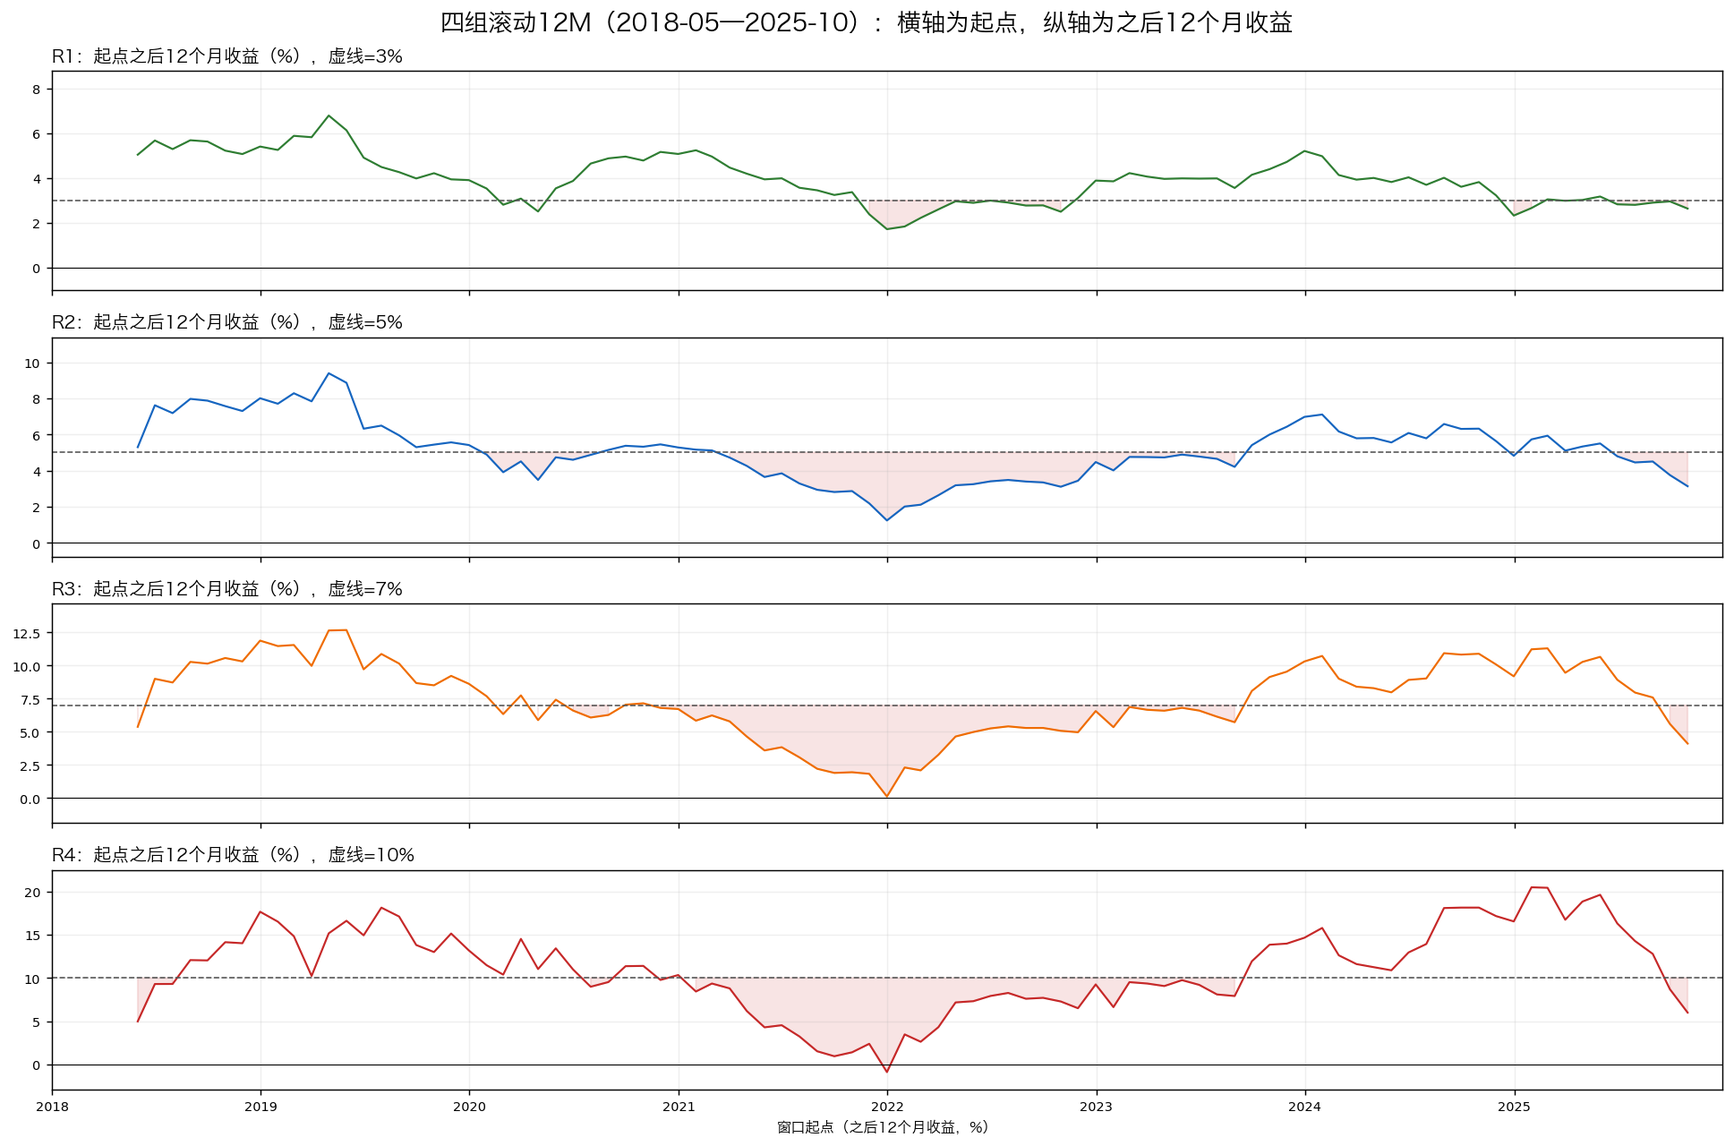
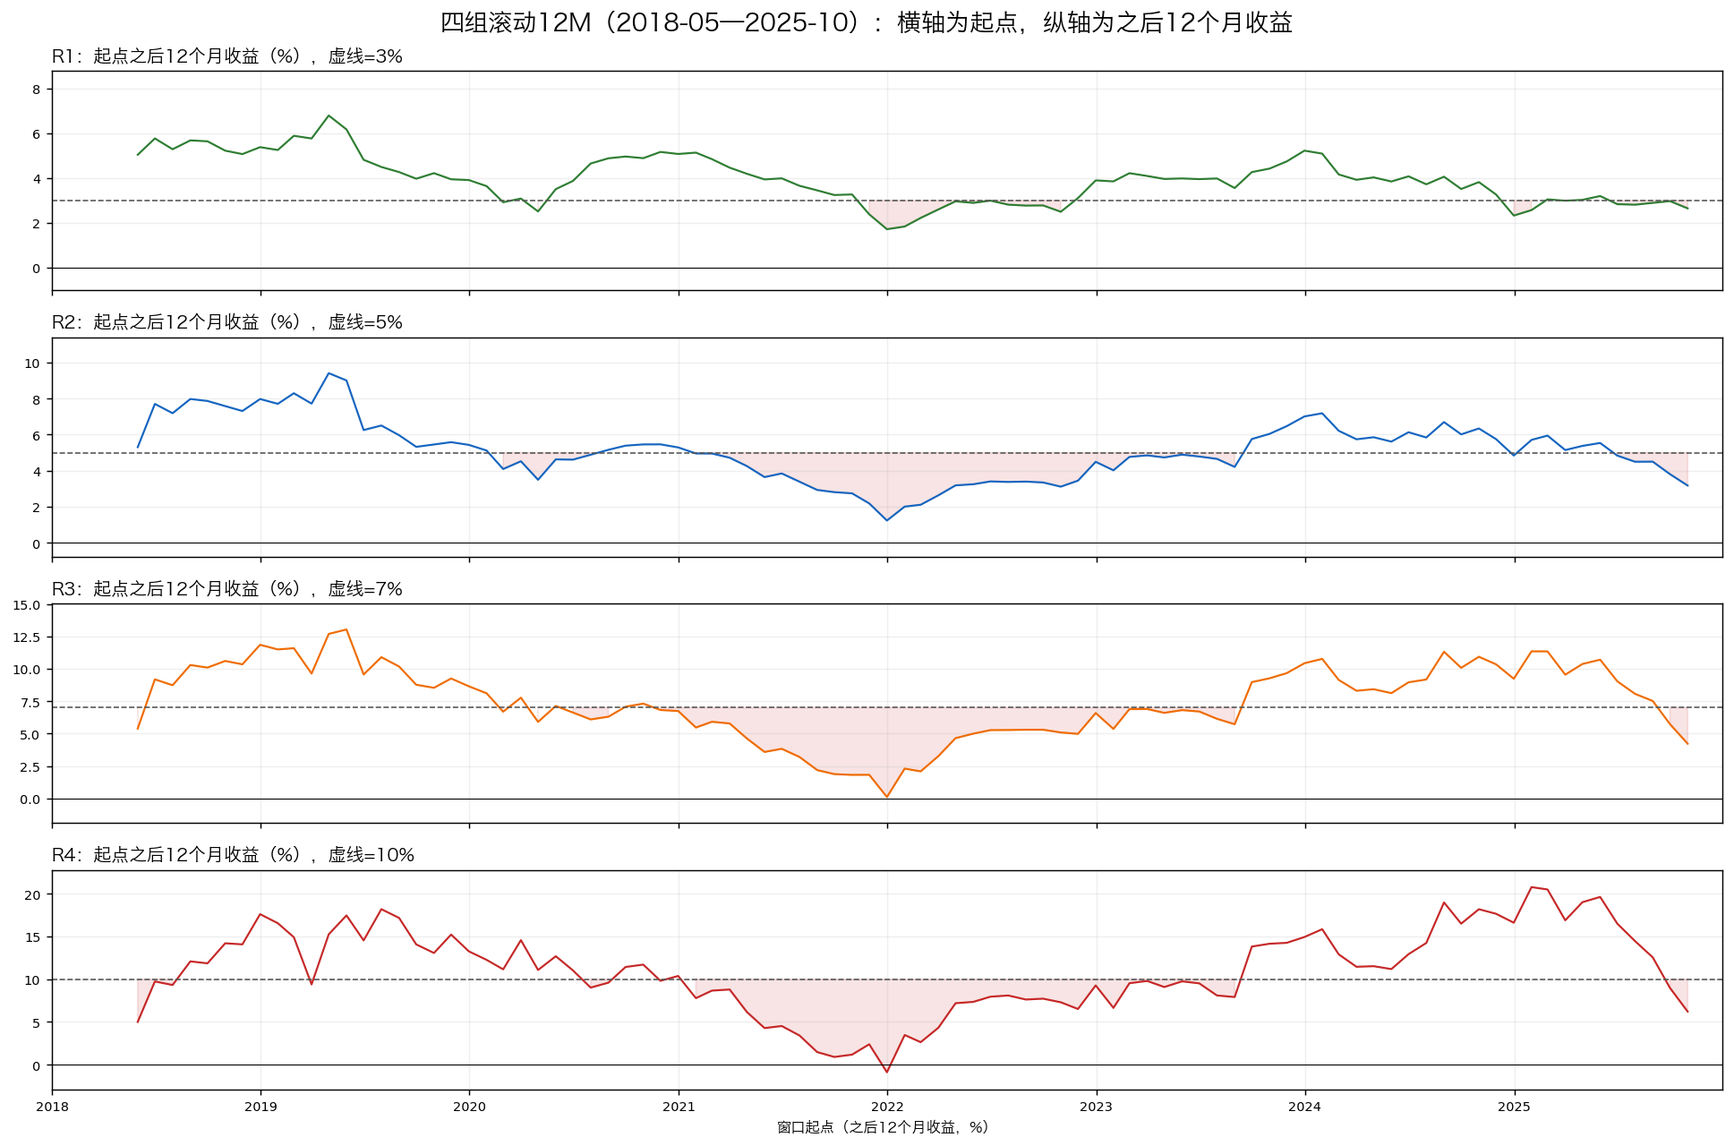
update

diff --git a/README.md b/README.md
@@ -1,10 +1,45 @@
-# funds-guide-cn（基金配置方案 2026-10）
+# 基金配置方案（2026-10）
 
 > 数据截止：2026-10-19。目标：支付宝场外可买、长期持有 20 年；分 3%/5%/7%/10% 四档，回撤不超过档位。
+>
 > 本文不构成投资建议。
-> 结构：1 结论 → 1.1 选基清单 → 1.2 指标摘要 → 2 方法 → 3 类型 → 4 基金池 → 5 构建 → 6 压力 → 7 对冲验证 → 8 执行 → 9 风险。
+
+## 目录
+
+- [1. 结论：4 个组合](#s1)
+  - [1.1 选基清单（类型层，权重 %）](#s1-1)
+  - [1.2 关键指标摘要](#s1-2)
+- [2. 方法与数据](#s2)
+  - [2.1 数据](#s2-1)
+  - [2.2 回测规则](#s2-2)
+  - [2.3 2016—2018 的扩展代理](#s2-3)
+  - [2.4 验证](#s2-4)
+- [3. 基金类型与基金池](#s3)
+  - [3.1 基金类型全景（40+ 细分）](#s3-1)
+  - [3.2 费率与经理](#s3-2)
+  - [3.3 选基标准（为什么是这些）](#s3-3)
+  - [3.4 规模/清盘风险](#s3-4)
+- [4. 组合构建：比例依据](#s4)
+  - [4.1 每类为什么是这个比例](#s4-1)
+  - [4.2 风险贡献（2020-2026，方差贡献）](#s4-2)
+  - [4.3 基金经理视角的六个概念](#s4-3)
+- [5. 压力与滚动](#s5)
+  - [5.1 压力年](#s5-1)
+  - [5.2 分段与 2020-2026](#s5-2)
+  - [5.3 费用口径](#s5-3)
+- [6. 对冲验证：哪些是真对冲，哪些是假对冲](#s6)
+  - [6.1 相关性矩阵（2020-2026 日频）](#s6-1)
+- [7. 执行清单](#s7)
+  - [7.1 再平衡](#s7-1)
+  - [7.2 限购/替代](#s7-2)
+  - [7.3 税费/费用](#s7-3)
+- [8. 风险与局限](#s8)
+
+<a id="s1" name="s1"></a>
 
 ## 1. 结论：4 个组合
+
+<a id="s1-1" name="s1-1"></a>
 
 ### 1.1 选基清单（类型层，权重 %）
 
@@ -40,18 +75,20 @@
 > **R1 的 30% 货币是 3% 档的收益刹车**，不是风险集中；风险资产合计 70%。
 ---
 
+<a id="s1-2" name="s1-2"></a>
+
 ### 1.2 关键指标摘要
 
-| 组合 | 定位 | 年化（12M均值） | 波动 | 最大回撤 | Calmar（CAGR） | 2018* | 2022 | 2023 | 2025 | 最差12M | 12M≥5% | 12M<0 | 类型/基金 | 前瞻基准 |
-|---|---|---:|---:|---:|---:|---:|---:|---:|---:|---:|---:|---|---:|---:|
-| **R1** | 3%/3% 防守 | 3.94% | 0.75% | -0.81% | 4.87 | +3.47% | +1.69% | +3.82% | +2.21% | +1.87% | 23.4% | 0.0% | 20/29 | 1.8% |
-| **R2** | 5%/5% 稳健 | 5.12% | 1.43% | -1.35% | 3.71 | +3.42% | +1.23% | +4.39% | +4.73% | +1.36% | 59.3% | 0.0% | 20/29 | 2.0% |
-| **R3** | 7%/7% 平衡 | 7.42% | 2.78% | -3.15% | 2.23 | +2.55% | +0.20% | +6.42% | +9.22% | +0.32% | 83.6% | 0.0% | 20/29 | 2.6% |
-| **R4** | 10%/10% 进取 | 11.00% | 5.36% | -6.72% | 1.49 | +0.01% | -0.80% | +8.98% | +16.86% | -1.03% | 89.2% | 1.2% | 20/29 | 3.7% |
+| 组合 | 定位 | 年化（12M均值） | 最低年化(12M) | 波动 | 最大回撤 | Calmar（CAGR） | 2018* | 2022 | 2023 | 2025 | 最差12M(252日) | 12M≥5% | 12M<0 | 类型/基金 | 前瞻基准 |
+|---|---|---:|---:|---:|---:|---:|---:|---:|---:|---:|---:|---:|---|---:|---:|
+| **R1** | 3%/3% 防守 | 3.94% | 1.60% | 0.75% | -0.81% | 4.87 | +3.47% | +1.69% | +3.82% | +2.21% | +1.87% | 23.4% | 0.0% | 20/29 | 1.8% |
+| **R2** | 5%/5% 稳健 | 5.13% | 1.20% | 1.43% | -1.35% | 3.71 | +3.42% | +1.23% | +4.39% | +4.73% | +1.36% | 59.3% | 0.0% | 20/29 | 2.0% |
+| **R3** | 7%/7% 平衡 | 7.45% | 0.05% | 2.78% | -3.15% | 2.23 | +2.55% | +0.20% | +6.42% | +9.22% | +0.32% | 83.6% | 0.0% | 20/29 | 2.6% |
+| **R4** | 10%/10% 进取 | 11.07% | -1.06% | 5.36% | -6.72% | 1.49 | +0.01% | -0.80% | +8.98% | +16.86% | -1.03% | 89.2% | 1.2% | 20/29 | 3.7% |
 
-> 口径：`年化（12M均值）` = 2018-05—2025-10 每月起算的 12M 收益均值（90 个窗口，与图2同一批）；波动/最大回撤为 2018-05—2026-10 日频；`Calmar（CAGR）` 仍按 CAGR/最大回撤；6.2 的 CAGR 与 6.3 的 12M 统计仍按 CAGR/统一 5% 口径。月度再平衡；10bp 单边成本；净值已扣管理费/托管费/销售服务费。
+> 口径：`年化（12M均值）` = 2018-05—2025-10 每月起算的 12M 收益均值（90 个窗口，与图2同一批）；`最低年化(12M)` 为 2018-05—2026-10 所有交易日、日期+1年的 12M 最低收益；`最差12M(252日)` 为 252 个交易日滚动最低值。两者样本不同。波动/最大回撤为日频；`Calmar（CAGR）` 仍按 CAGR/最大回撤；5.2 的 CAGR 仍按 CAGR 口径。月度再平衡；10bp 单边成本；净值已扣管理费/托管费/销售服务费。
 > **档位按滚动12M均值定义**；R1 3% 档实际为 3.94%，在“单类≤30%”约束下无法再压到 3.0%（除非货币超过 30%）。前瞻基准只有 1.8%/2.0%/2.6%/3.7%；3/5/7/10 不是未来承诺。
-> **四组累计净值、年度收益、每月起算 12M 见图**；其中 2016†/2017†/2018† 为代理扩展，2019+ 实际。6.1 的 2018* 为 5—12 月实际口径。
+> **四组累计净值、年度收益、每月起算 12M 见图**；其中 2016†/2017†/2018† 为代理扩展，2019+ 实际。5.1 的 2018* 为 5—12 月实际口径。
 
 
 ![四组关键指标](./fund_dashboard.png)
@@ -59,17 +96,23 @@
 ![四组滚动12M](./fund_rolling.png)
 
 > **图1**：累计净值、年度收益柱、每月起算 12M 热力图、回撤、收益/回撤、12M 达标占比。**图2**：2018-05—2025-10 的 12M 收益曲线；横轴为起点，纵轴为之后 12 个月收益；虚线是各组目标（R1 3%、R2 5%、R3 7%、R4 10%）。
-> 图中 `12M窗口占比` 使用各组阈值：R1 ≥3%/<1.5%、R2 ≥5%/<2.5%、R3 ≥7%/<3.5%、R4 ≥10%/<5%；1.2/6.3 表中的 `12M≥5%`/`12M<0` 是统一 5% 口径，两者不要混读。
+> 图中 `12M窗口占比` 使用各组阈值：R1 ≥3%/<1.5%、R2 ≥5%/<2.5%、R3 ≥7%/<3.5%、R4 ≥10%/<5%；1.2 表中的 `12M≥5%`/`12M<0` 是统一 5% 口径，两者不要混读。
 > 低波动组合的月 K 线几乎是一条斜线，信息量低，未采用；改用累计净值 + 滚动 12M + 热力图。
 > GitHub 不支持 data URI 图片；本文件已改为同目录 PNG（fund_dashboard.png、fund_rolling.png），提交时需一并上传这两个文件。
 
+<a id="s2" name="s2"></a>
+
 ## 2. 方法与数据
+
+<a id="s2-1" name="s2-1"></a>
 
 ### 2.1 数据
 
 - 天天基金 `pingzhongdata`：用**单位净值 + 累计净值差**还原分红，按除息日再投资；日频。1.2 的指标为 2018-05-01—2026-10-19 的实际净值口径；图中的 2016—2018 为代理扩展。
 - 候选 37 只 + 货币 000198；最终四组均持有 29 只、20 类。
 - 基金净值已扣管理费、托管费、销售服务费；回测额外扣 10bp 单边交易成本；不再另减年费。
+
+<a id="s2-2" name="s2-2"></a>
 
 ### 2.2 回测规则
 
@@ -78,6 +121,8 @@
 - **无杠杆、无衍生品、不做空**；只用场外公募基金。
 - **组合权重**：300 轮定向扰动 + 类型上限约束；基金层精确到 0.1%，按 1.1 拆分执行。
 - **优化**：在“收益 ≥ 档位、最大回撤 ≤ 档位”的约束下最小化波动；单类上限：所有类型 ≤30%；每只基金 ≥0.1%，按 0.1 的整数倍调整。
+
+<a id="s2-3" name="s2-3"></a>
 
 ### 2.3 2016—2018 的扩展代理
 
@@ -96,7 +141,9 @@
 | 004279 | 001722 | 2017-02 前；偏债 |
 | 004597 | 001594 | 2017-06 前；银行 |
 
-> 1.2 图中的 2016—2018 含代理误差；1.2/6.1 的 2018* 为 5—12 月实际口径；2020—2026 为真实净值。
+> 1.2 图中的 2016—2018 含代理误差；1.2/5.1 的 2018* 为 5—12 月实际口径；2020—2026 为真实净值。
+
+<a id="s2-4" name="s2-4"></a>
 
 ### 2.4 验证
 
@@ -105,10 +152,16 @@
 - **独立复算**：另写价值法脚本，从原始 CSV 重新加载、按月再平衡、逐日记账；CAGR 为 3.95/5.00/7.00/10.02，与 1.2 的 12M 均值不同；回撤用同一价值序列（-0.81/-1.35/-3.15/-6.72）。
 - **口径校验**：2020-2026 真实净值 CAGR 为 3.53/4.54/6.76/10.59；2018-2026 CAGR 为 3.95/5.00/7.00/10.02。
 - **300 轮审计**：每组 300 轮随机互调（0.1/0.2/0.3/0.5）+ 0.1 全邻域复算；在收益≥档位、单类≤30%、每只≥0.1 下，只有同时改善回撤/波动且通过 2018/2022 压力测试的解才会采用。
-- **压力校验**：自然年、2018-2022/2023-2026 分段、日频滚动 12M、逐月起算 12M；结果见 6.1/6.2/6.3 和 1.2 图。
+- **压力校验**：自然年、2018-2022/2023-2026 分段、日频滚动 12M、逐月起算 12M；结果见 5.1/5.2 和 1.2 图。
 - **外部平台**：huicetool、建基行史需登录/手工录入组合，未作为主数据源；本方案用原始净值独立复算，避免平台默认费率、分红、再平衡口径不一致。
 
-## 3. 基金类型全景（40+ 细分）
+<a id="s3" name="s3"></a>
+
+## 3. 基金类型与基金池
+
+<a id="s3-1" name="s3-1"></a>
+
+### 3.1 基金类型全景（40+ 细分）
 
 | 大类 | 细分（不能遗漏的主干） | 本方案 |
 |---|---|---|
@@ -125,9 +178,9 @@
 > 这张表是全集；本方案只把“有明确收益来源、可长期持有、支付宝可买”的 20 类纳入。
 > 未纳入的地域/行业：日本、印度、亚太、港股、新兴、美元债、REITs、医药、半导体、新能源、军工、券商、地产、农业、有色/煤炭、化工——不是漏掉，而是限购、规模、回撤或相关性不划算；只保留美股/全球/欧洲和银行/制造/科技。
 
-## 4. 基金池：费率、经理与风险
+<a id="s3-2" name="s3-2"></a>
 
-### 4.1 费率与经理
+### 3.2 费率与经理
 
 | 代码 | 基金 | 管理费 | 托管费 | 销售服务费 | 经理 | 任职起始 |
 |---|---|---:|---:|---:|---|---|
@@ -166,7 +219,9 @@
 > 管理费/托管费/销售服务费按日计提，**已反映在净值里**；申购费一次性，20 年摊薄 <0.01%/年；QDII 溢价按一次性成本处理，不按年扣。
 > 需要跟踪：002969（2026-03 新 co-manager）、003376（2025-11 新经理，指数影响小）、000307（2025-12 新经理，指数影响小）、519696（2026-01 新经理）、001722/004597（规模偏小，接近清盘线）、009049/001513（高波动，季度看持仓）。
 
-### 4.2 选基标准（为什么是这些）
+<a id="s3-3" name="s3-3"></a>
+
+### 3.3 选基标准（为什么是这些）
 
 1. **同类 3/5 年在前 1/3**：009049 3 年 141.1%、001513 3 年 212.8%，都是同类第 1；110023 5 年 1.0%、001061 5 年 2.4%，被淘汰。
 2. **Calmar/回撤优先，不只看收益**：005161 5 年 10.2% 但 2026 -18.6%、与组合相关 0.66，不选；000083 2020-26 -0.4%、回撤 -54.5%，只做 0.1% 覆盖，不做主力。
@@ -176,13 +231,19 @@
 6. **名字/持仓不漂移**：指数/红利低波/黄金/纳指/标普优先；主动权益只留 009049/001513（合计 ≤7%），000083 只做 0.1% 覆盖。
 7. **买不到的首选**：270042/050025 是类型最优但暂停；实际用 000834/096001，而不是降级到“差但能买”的基金。
 
-### 4.3 规模/清盘风险
+<a id="s3-4" name="s3-4"></a>
+
+### 3.4 规模/清盘风险
 
 004597 约 2.1 亿、240019 约 1.5 亿，接近 5000 万清盘线；001722 约 4.9 亿、003741 约 5.0 亿，规模偏小。新组合已把 004597 限制在 0.3-0.9%、001722 限制在 0.1-0.7%、003741 限制在 1.8-6.3%，规模风险可控；仍每季度查规模与持有人数，连续 20 个工作日 <5000 万或 <200 人时换 001594/240019 或降仓。R1 的 003280 为 28.2%，是单基金最高仓位，且限 1000 万/日；大资金分 003741/004127，单日买不完就分批。
 
-## 5. 组合构建：比例依据
+<a id="s4" name="s4"></a>
 
-### 5.1 每类为什么是这个比例
+## 4. 组合构建：比例依据
+
+<a id="s4-1" name="s4-1"></a>
+
+### 4.1 每类为什么是这个比例
 
 - **货币 2.3-30%**：3% 档的收益刹车；R1 30% 已到上限、R2 27.0%、R3 16.4%、R4 2.3%。
 - **短债 6.2-30%**：R1 30% 是货币之外的第二层缓冲；R2 21.1%；R3 14.4%；R4 只 6.2%。
@@ -201,7 +262,9 @@
 
 **这不是“收益最大化”解，而是“先达到档位收益、再把波动压到最低”的解。** R1 的 30% 货币是上限，不能再高；因此 3% 档实际为 3.94%（12M均值），在现有资产池里压不到 3.0%。要精确 3.0%，只能加入存款/同业存单，或放宽 30% 上限。
 
-### 5.2 风险贡献（2020-2026，方差贡献）
+<a id="s4-2" name="s4-2"></a>
+
+### 4.2 风险贡献（2020-2026，方差贡献）
 
 | 组合 | 前五大风险源 | 说明 |
 |---|---|---|
@@ -210,7 +273,9 @@
 | R3 | 黄金 33.5%、美股 12.7%、一级债 12.0%、红利 10.4%、科技 6.2% | 黄金单独三分之一风险，红利只有 10% |
 | R4 | 黄金 30.2%、红利 19.9%、美股 15.1%、科技 11.9%、可转债 8.9% | 五个风险源接近均分；R4 是“高 beta”，不是“稳” |
 
-### 5.3 基金经理视角的六个概念
+<a id="s4-3" name="s4-3"></a>
+
+### 4.3 基金经理视角的六个概念
 
 1. **风险预算，不是收益预测**：先定“最多亏多少”，再反推能买多少权益。R1 的 30% 货币+30% 短债不是“看空”，是 0.81% 回撤预算只能给这么多风险资产。
 2. **久期是利率债的杠杆**：006961 久期约 7 年；R3 的 17.9% 利率债，10Y +100bp 静态亏约 1.2%，仍在 3.15% 回撤预算内。
@@ -219,15 +284,21 @@
 5. **黄金是保险，不是生息资产**：R4 的 15.3% 黄金贡献 30.2% 风险，但没有票息；它的作用是“股灾时能卖”。
 6. **行为风险是最大风险**：R4 的 -6.72% 不是一天跌出来的；2018 年基本打平，2022 年亏 -0.80%。先决定能否扛 -7%，再选 R4。
 
-## 6. 压力与滚动
+<a id="s5" name="s5"></a>
 
-### 6.1 压力年
+## 5. 压力与滚动
+
+<a id="s5-1" name="s5-1"></a>
+
+### 5.1 压力年
 
 - **2018*（5—12 月）**：R1 +3.47%、R2 +3.42%、R3 +2.55%、R4 +0.01%；R4 基本打平，是 10% 档的代价。
 - **2022 全年**：R1 +1.69%、R2 +1.23%、R3 +0.20%、R4 -0.80%；四组都没有出现年度大亏，但 R4 转负。
 - **2016—2026 年度收益柱状图**见 1.2 图1；2018† 是全年含代理，和上面 2018* 的 5—12 月口径不同。
 
-### 6.2 分段与 2020-2026
+<a id="s5-2" name="s5-2"></a>
+
+### 5.2 分段与 2020-2026
 
 | 组合 | 2020-2026 年化/回撤 | 2018-2022 年化/回撤/Calmar | 2023-2026 年化/回撤/Calmar |
 |---|---|---|---|
@@ -237,41 +308,20 @@
 | R4 | 10.59% / -5.72% | 8.43% / -6.72% / **1.25** | 11.96% / -5.72% / **2.09** |
 
 > 四组全周期都满足档位、回撤低于预算；R3/R4 的 2018-22 为 6.34%/8.43%，低于 7%/10% 档，靠 2023-26 的 7.79%/11.96% 补回。
-### 6.3 滚动 12 个月（逐月起点）
 
-| 组合 | 最差 12M | 12M≥5% | 12M<0 |
-|---|---:|---:|---:|
-| R1 | +1.87% | 23.4% | 0.0% |
-| R2 | +1.36% | 59.3% | 0.0% |
-| R3 | +0.32% | 83.6% | 0.0% |
-| R4 | -1.03% | 89.2% | 1.2% |
+<a id="s5-3" name="s5-3"></a>
 
-> 上表是全部日频滚动窗口；下表按“1—12 月每个月份起算”的月末净值计算 12 个月，每格为 **最差 / 中位 / ≥5% 占比**。样本为该月起的 7—8 个 12 个月窗口。
-
-| 起始月 | R1 | R2 | R3 | R4 |
-|---|---|---|---|---|
-| 1 月 | +1.84% / +3.85% / 42.9% | +2.00% / +5.11% / 57.1% | +2.30% / +8.11% / 85.7% | +3.48% / +12.26% / 85.7% |
-| 2 月 | +2.22% / +4.16% / 14.3% | +2.10% / +4.95% / 42.9% | +2.09% / +6.89% / 85.7% | +2.64% / +11.15% / 85.7% |
-| 3 月 | +2.60% / +3.93% / 14.3% | +2.63% / +4.85% / 42.9% | +3.27% / +7.77% / 85.7% | +4.33% / +9.79% / 85.7% |
-| 4 月 | +2.51% / +3.96% / 14.3% | +3.18% / +4.73% / 42.9% | +4.63% / +6.60% / 71.4% | +6.17% / +11.07% / 100.0% |
-| 5 月 | +2.89% / +3.90% / 25.0% | +3.24% / +5.09% / 50.0% | +3.59% / +6.97% / 75.0% | +4.28% / +10.46% / 87.5% |
-| 6 月 | +2.84% / +3.97% / 12.5% | +3.40% / +4.81% / 37.5% | +3.83% / +7.83% / 87.5% | +4.53% / +10.38% / 87.5% |
-| 7 月 | +2.81% / +3.85% / 12.5% | +3.37% / +4.77% / 37.5% | +3.20% / +7.10% / 87.5% | +3.43% / +9.17% / 87.5% |
-| 8 月 | +2.77% / +3.81% / 12.5% | +2.93% / +4.83% / 50.0% | +2.19% / +6.91% / 87.5% | +1.48% / +10.84% / 87.5% |
-| 9 月 | +2.78% / +3.74% / 12.5% | +2.80% / +5.35% / 62.5% | +1.88% / +7.92% / 87.5% | +0.91% / +11.64% / 87.5% |
-| 10 月 | +2.50% / +4.02% / 12.5% | +2.74% / +5.45% / 62.5% | +1.82% / +7.92% / 75.0% | +1.18% / +12.38% / 87.5% |
-| 11 月 | +2.38% / +3.95% / 28.6% | +2.18% / +5.58% / 71.4% | +1.82% / +9.25% / 71.4% | +2.39% / +14.07% / 85.7% |
-| 12 月 | +1.72% / +3.91% / 42.9% | +1.23% / +5.29% / 57.1% | +0.11% / +8.65% / 85.7% | -0.88% / +13.25% / 85.7% |
-
-> 逐月起点显示：R1 的最差窗口仍在 +1.7% 以上；R2 在 +1.2% 以上；R3 有 0.1% 的窗口；R4 在 12 月起算的窗口最差约 -1%。**没有“每个 12 个月都 ≥5%”的组合**，尤其 R1/R2。
-
-### 6.4 费用口径
+### 5.3 费用口径
 
 净值已扣管理费、托管费、销售服务费；回测再扣 10bp 单边交易成本。申购费支付宝常 1 折、一次性，20 年摊薄 <0.01%/年；QDII 溢价按一次性成本处理，不按年扣。**因此表中的年化就是净费后收益，不再重复减费。**
 
-## 7. 对冲验证：哪些是真对冲，哪些是假对冲
+<a id="s6" name="s6"></a>
 
-### 7.1 相关性矩阵（2020-2026 日频）
+## 6. 对冲验证：哪些是真对冲，哪些是假对冲
+
+<a id="s6-1" name="s6-1"></a>
+
+### 6.1 相关性矩阵（2020-2026 日频）
 
 | | 短债 | 信用 | 利率 | 二级 | 可转债 | 红利 | 黄金 | 美股 | 银行 | 制造 | 科技 |
 |---|---:|---:|---:|---:|---:|---:|---:|---:|---:|---:|---:|
@@ -296,9 +346,13 @@
 - **R1 的 30% 货币+30% 短债**：货币不贡献风险；R1 的风险来自利率债 33.0%、一级债 15.9%、短债 15.4%；它是债券组合，不是权益组合。
 - **R4 的 12.7% 红利+15.3% 黄金+9.3% 美股+18.4% 利率**：高风险资产约 37.3%，是“收益预算”，不是“稳定”。
 
-## 8. 执行清单
+<a id="s7" name="s7"></a>
 
-### 8.1 再平衡
+## 7. 执行清单
+
+<a id="s7-1" name="s7-1"></a>
+
+### 7.1 再平衡
 
 | 组合 | 月度 | 季度 | 年度 |
 |---|---:|---:|---:|
@@ -310,7 +364,9 @@
 - **R1-R3 年度/季度略优；R4 季度略优**，差异都 <0.2pp；实战选年度，减少交易和税费。
 - **不采用 5pp 偏离带**：2022 触发太晚，回撤反而更大。
 - **用新增资金再平衡**：优先买低配类型，避免赎回费。
-### 8.2 限购/替代
+<a id="s7-2" name="s7-2"></a>
+
+### 7.2 限购/替代
 
 | 基金 | 限制 | 替代 |
 |---|---|---|
@@ -322,21 +378,25 @@
 
 > QDII 限额逐日变化，以支付宝页面为准；大资金不要把 9.3% 美股一次性建完。
 
-### 8.3 税费/费用
+<a id="s7-3" name="s7-3"></a>
+
+### 7.3 税费/费用
 
 - 管理费/托管费/销售服务费**已扣在净值**；不要再减。
 - 申购费支付宝常 1 折；持有 <7 天赎回费 1.5%，7-30 天 1%，30-180 天 0.5%，>180 天多数 0；**20 年持有，不要短炒**。
 - 分红税：基金内部已处理；个人层面按现行公募基金分红规则。
 - QDII 溢价/汇率：实际买入价可能比净值高 1-5%，不要追高。
 
-## 9. 风险与局限
+<a id="s8" name="s8"></a>
 
-1. **档位是历史回测，不是未来承诺**：滚动12M均值 3.94-11.00%（CAGR 3.95-10.02%），前瞻基准只有 1.8-3.7%。如果 2026 后利率/黄金/美股回撤，R3/R4 会先亏。
+## 8. 风险与局限
+
+1. **档位是历史回测，不是未来承诺**：滚动12M均值 3.94-11.07%（CAGR 3.95-10.02%），前瞻基准只有 1.8-3.7%。如果 2026 后利率/黄金/美股回撤，R3/R4 会先亏。
 2. **R1 的 30% 货币是上限**：不是“看空”，是 0.81% 回撤预算的结果；因此 3% 档实际为 3.94%（12M均值），在现有资产池里无法精确压到 3.0%。若压低货币，收益会升、回撤也会升；若提高货币，则违反单类≤30%。
 3. **R4 是风险预算上限**：12.7% 红利、15.3% 黄金、9.3% 美股、18.4% 利率债；风险贡献 19.9%/30.2%/15.1%。R4 的 -6.72% 是历史，不是上限。
 4. **选择偏差**：基金池是“今天仍存续、业绩好”的样本，历史收益可能高 2-4pp/年；不要线性外推。
-5. **2025 异常**：R4 2025 +16.86%，主要来自红利/黄金/美股；如果 2025 不重复，R4 的 11.00% 会降到 6-7%。
+5. **2025 异常**：R4 2025 +16.86%，主要来自红利/黄金/美股；如果 2025 不重复，R4 的 11.07% 会降到 6-7%。
 6. **QDII 限购/溢价**：000834/096001 限购；大资金建仓慢，实际收益可能低于回测。
 7. **主动基金风格漂移**：002969、003376、000307 新经理；009049/001513 高波动，季度看持仓。
-8. **代理误差**：1.2 图中的 2016†/2017†/2018† 含代理拼接；2019+ 为实际净值，2018 全年图与 6.1 的 5—12 月口径不可直接比较。
+8. **代理误差**：1.2 图中的 2016†/2017†/2018† 含代理拼接；2019+ 为实际净值，2018 全年图与 5.1 的 5—12 月口径不可直接比较。
 9. **没有完美组合**：R1 稳但收益低，R4 收益高但 2022 仍小亏；先决定能接受 -1%、-1.5%、-3% 还是 -7%，再选。
